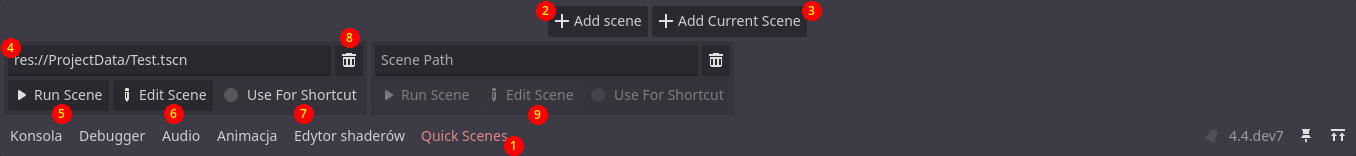
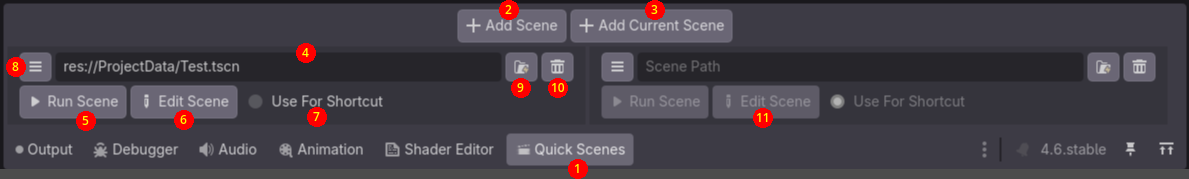
Added scene reordering

Changed region(s): [[0.0, 0.0, 1.0, 1.0], [0.2489, 0.1795, 0.3423, 0.4359]]

diff --git a/README.md b/README.md
@@ -14,8 +14,10 @@ Enable the plugin in Project Setttings. Quick Scenes should appear in your botto
 5. Runs the scene at the provided path.
 6. Opens the scene in the editor.
 7. If this is checked, this scene will be ran after pressing the shortcut (default is <kbd>F9</kbd>) in the editor.
-8. Hold this button for half second to delete the scene. You can't undo this action.
-9. The buttons are disabled if the path does not point to a valid scene.
+8. Drag this button to reorder scenes.
+9. Click this button to quick load a scene.
+10. Hold this button to delete the scene. You can't undo this action.
+11. The buttons are disabled if the path does not point to a valid scene.
 
 You can assign the scene path by right-clicking a scene file, selecting "Copy Path" option and pasting in the path field. You can also drag and drop it.
 
